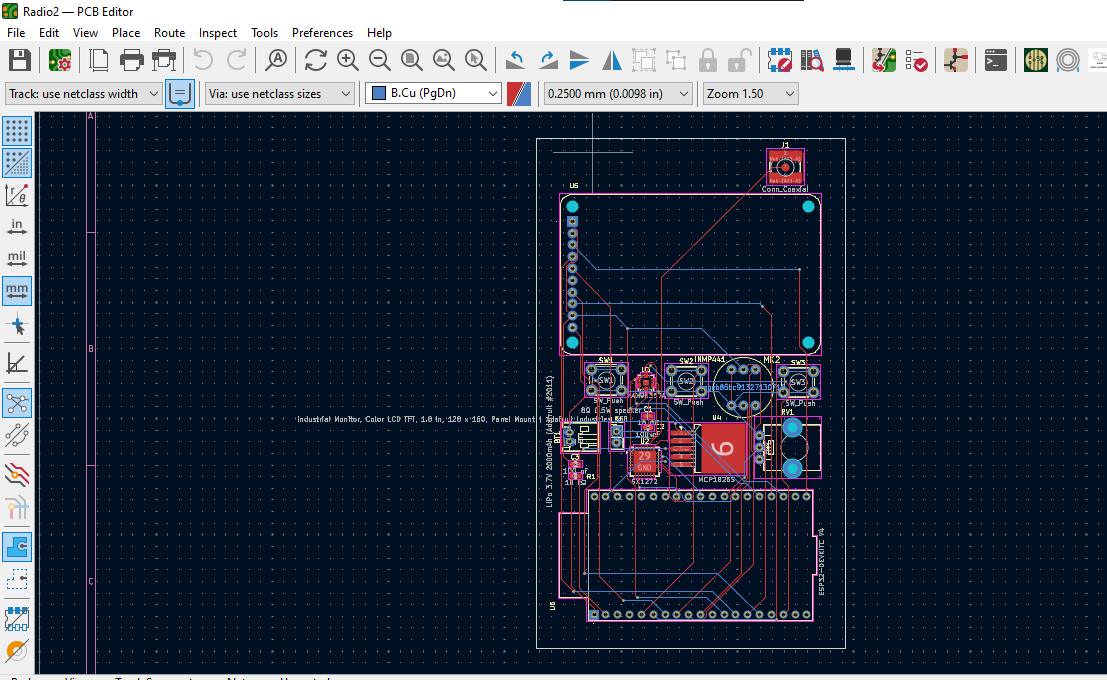
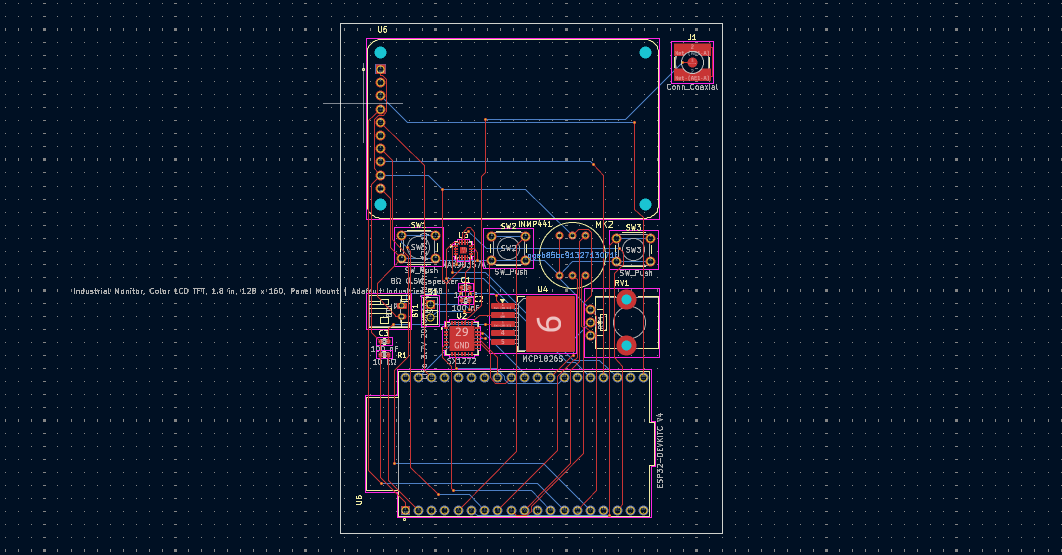
pictures

diff --git a/README.md b/README.md
@@ -1,4 +1,8 @@
 # ESP32_Smart_Walkie_Talkie
+
 This is a smart walkie talkie using an ESP32 development board. It functions as a walkie talkie. It uses a LoRa module to send radio signals 1 km+, and has smart features such as a low battery alert and a RSSI Signal Bar.
 
 I made this project to allow people to contact each other where cellular data wasn't an option. It would be especially helpful in a remote environment such as a forest, to talk with somebody, or broadcast your signal in case of emergencies. I wanted my first Blueprint project to be useful to the everyday public.
+
+For BOM, go to BOM folder
+
